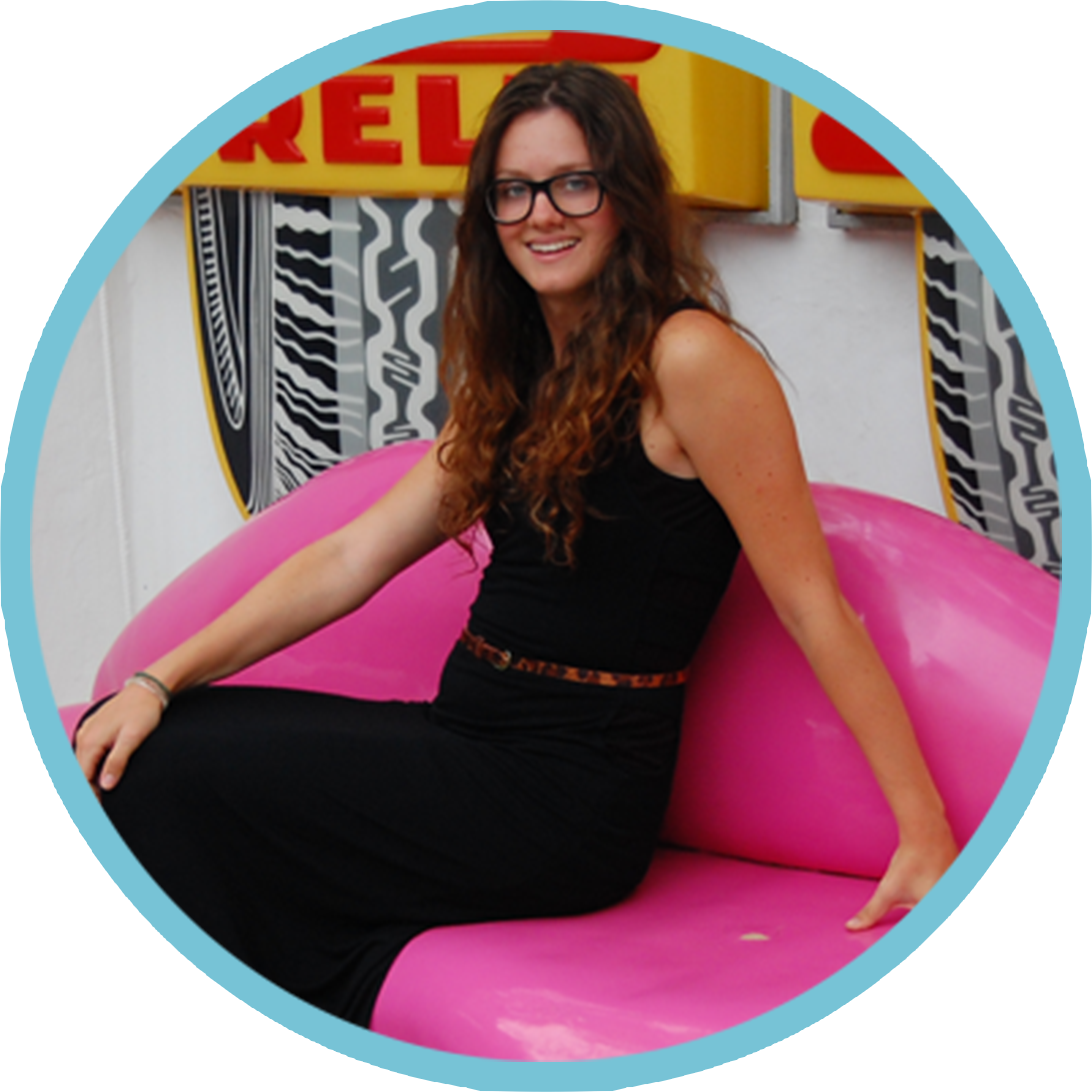
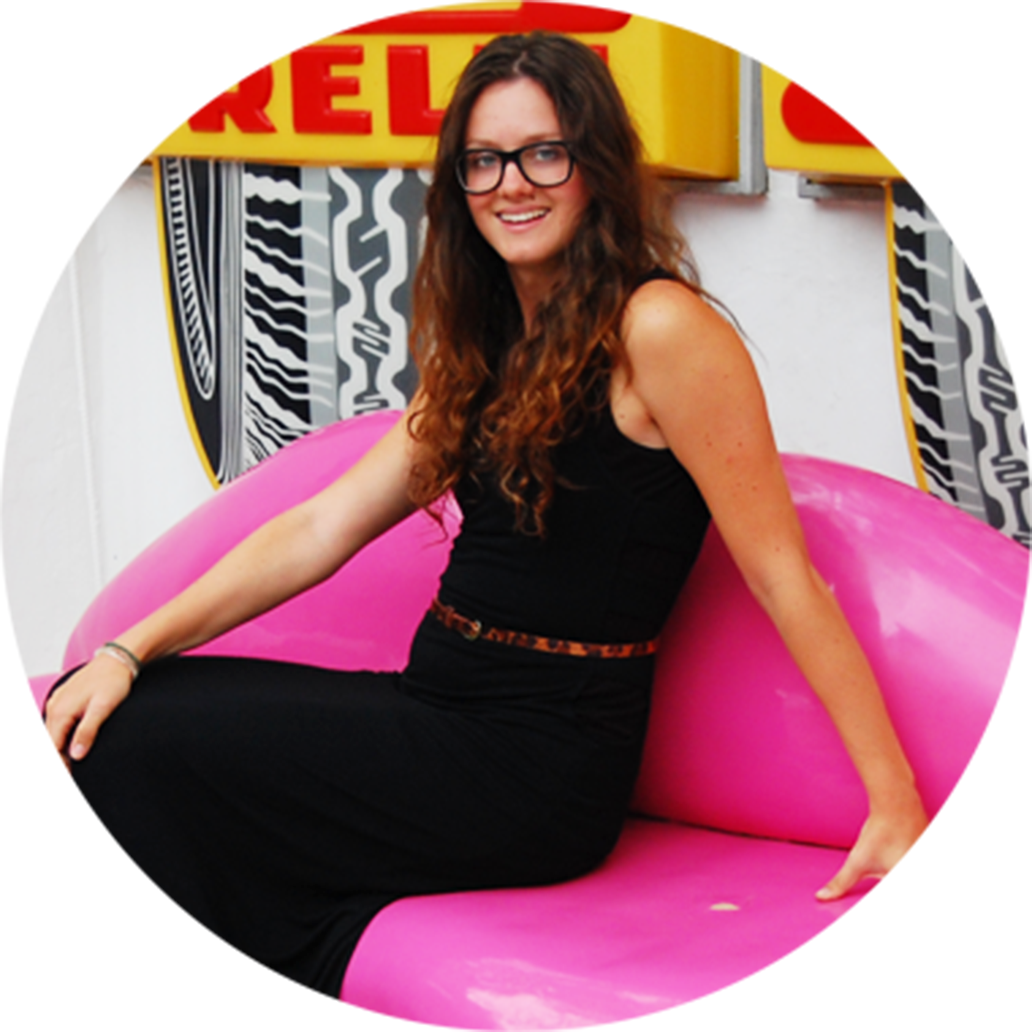
finalizing contact page

diff --git a/style.css b/style.css
@@ -4,43 +4,52 @@
 @import url(http://fonts.googleapis.com/css?family=Open+Sans:700);
 @import url(http://fonts.googleapis.com/css?family=Noto+Sans:400,700);
 
-body{
+body {
 	font-family: 'Open Sans Condensed', sans-serif;
 	padding: 0;
 	margin: 0; 
 	}
-h1{
+h1	{
 	font-family: 'Open Sans Bold', sans-serif;
 	font-size: 1.8em;
 	letter-spacing: .01em;
 	text-transform: uppercase;
 	margin-bottom: -10px;
 	}
-h2{
+h2	{
 	font-family: 'Noto Sans', sans-serif;
 	font-size: .95em;
 	letter-spacing: .03em;
 	}
-h4{
+h4	{
 	font-family: 'Quicksand', sans-serif;
 	font-size: 4em;
 	margin-top: 34px;
 	margin-bottom: -16px;
 	z-index: 9;
 	}
-h3{
+h3	{
 	font-family: 'Quicksand', sans-serif;
 	font-size: 1.6em;
-	letter-spacing: .2em;
+	letter-spacing: .26em;
 	z-index: 9;
 	}
-p{
+h5 {
+	font-family: 'Open Sans Bold', sans-serif;
+	font-size: 5.2em; 
+	text-align: center;
+	letter-spacing: .24em;
+	text-transform: uppercase;
+	margin-top: .5em;
+	margin-bottom: .3em;
+	}
+p	{
 	font-family: 'Open Sans Condensed', sans-serif;
 	font-size: 1.2em;
 	line-height: 2em;
 	text-align: left;
 	}
-nav{
+nav	{
 	background-color: transparent;
 	position: fixed;
 	width: 100%;
@@ -50,7 +59,7 @@ nav{
 	letter-spacing: .14em;
 	float: right;
 	}
-nav a{
+nav a {
 	color: #fff;
 	text-transform: uppercase;
 	text-decoration: none;
@@ -76,7 +85,7 @@ nav li {
   	position: absolute;
 	}
 #intropod {
-	min-height: 700px;
+	min-height: 685px;
 	width: 100%;
 	margin: 0;
 	padding: 0;
@@ -95,10 +104,12 @@ nav li {
 	margin-right: auto !important;
 	}
 .me img{
-	width: 400px;
+	width: 390px;
 	margin: 0 auto; 
 	position: relative;
 	top: 20px;
+	border: 12px solid #77c3d6;
+	border-radius: 50%;
 	}
 #triangle-left {
 	width: 0;
@@ -249,20 +260,58 @@ nav li {
 	height: 1000px;
 	}
 .social {
-	margin: 0 auto;
-	float: none;
 	position: relative;
-	display: -webkit-box;
 	text-align: center;
-	padding-top: 200px;
+	z-index: 9;
 	}
 .social img{
 	padding-left: 40px; 
 	padding-right: 15px;
 	width: 40px;
+	float: left;
 	}
 .social p {
-	font-family: 'Noto Sans Bold', sans-serif !important;
-	color: #fff;
+	font-family: 'Open Sans Bold', sans-serif !important;
+	font-size: 2em;
+	color: #000;
+	float: right;
+	line-height: 1;
+	font-weight: bold;
+	z-index: 9;
+	}
+.social :hover{
+	color: #2439ff;
+	cursor: pointer; 
+}
+#twitter {
+	position: absolute;
+	top: 300px;
+	left: 50em;
+	}
+#email {
+	position: absolute;
+	top: 14.5em;
+	left: 19em;
+	}
+#linkedin {
+	position: absolute;
+	top: 36em;
+	left: 22em;
+	}
+#dribble {
+	position: absolute;
+	top: 37em;
+	left: 48em;
+	}
+.contact {
+	position: absolute;
+	float: none;
+/*	background-size: 420px;
+	background-position: center;
+	top: 200px; */
+
+	}
+.contact img {
+	height: 550px;
 	}
 

diff --git a/index.html b/index.html
@@ -39,7 +39,7 @@
     <div>
       <div class="row">
         <div class="twelve columns center">
-          <p>I live and work in San Francisco, but raised in Brooklyn, NY. I love drawing in my sketchbook, calligraphy and hand-lettering, yoga, DIY projects, laughing with my friends, coding websites, and being outside. When I'm not learning new things or challenging myself, I feel uneasy. I am a risk taker. I am most happy in an environment where I can express my creativity and work with like minded people. My best ideas come from collaboration.</p>
+          <p>I live and work in San Francisco, bred in Brooklyn. I love drawing in my sketchbook, calligraphy and hand-lettering, yoga, DIY projects, laughing with my friends, coding websites, and being outside. When I'm not learning new things or challenging myself, I feel uneasy. I am a risk taker. I am most happy in an environment where I can express my creativity and work with like minded people. My best ideas come from collaboration.</p>
            <p>I solve problems one pixel and one bracket at a time. Currently I’m the UX/Visual Designer at Upsight. I lead the user experience strategy at Upsight and design new product features from specs to wireframes to full mockups to code complete. I helped design and code the Upsight website. I also work on product marketing for print and web. Since Upsight merged and rebranded into a new company in Nov 2013, I helped rebrand Upsight, redesign our current dashboard/product, the new brand and UI style guides.  </p>
 
           <p>Before Upsight, I worked at OMGPOP. At OMGPOP, I helped design UI elements for DrawSomething, designed the marketing campaign for the game and worked on marketing ads for OMGPOP's other games. While at OMGPOP, I cofounded Matchpuppy, a website that makes scheduling playdates with your dog very easy. I was inspired by my dogs lack of social skills and my cofounder and I built the app. It was an interesting learning experience. We grew our user base to almost 10,000 users. When the site was not growing anymore, we realized there's a lot more out there for us to learn, so we stopped the project.</p>

diff --git a/contact.html b/contact.html
@@ -12,14 +12,38 @@
 </head>
 <body>
   <div class="button back"> <a href="index.html">&#8592;</a></div>
-  	<div class="blue-pod">
+<!--   	<div class="blue-pod"> <! Blue Pod
   		<div class="row">
   			<div class="ten columns social center">
   				<img src="images/twitter.svg"/><p>@pink_ketchup</p>
+  				<img src="images/linkedin.svg"/><p></p>
   				<img src="images/email.svg"/><p>victoria.ts04@gmail.com</p>
   				<img src="images/dribble.svg"/><p>@pink_ketchup</p>
   			</div>
   		</div>
+  	</div> -->
+  	<div class="row">
+  	<div class="twelve columns social">
+  		<div id="twitter">
+  			<a href="twitter.com"><img src="images/twitter.svg"/><p>@pink_ketchup</p></a>
+  		</div>
+  		<div id="email">
+  			<a href="twitter.com"><img src="images/email.svg"/><p>victoria.ts04@gmail.com</p></a>
+  		</div>
+  		<div id="linkedin">
+  			<a href="twitter.com"><img src="images/linkedin.svg"/><p>@Victoria Artz</p></a>
+  		</div>
+  		<div id="dribble">
+  			<a href="twitter.com"><img src="images/dribble.svg"/><p>@pink_ketchup</p></a>
+  		</div>	
   	</div>
+  	</div>
+  	<div class="row">
+  		<div class="twelve columns contact">
+  			<h5>Contact</h5>
+  		<img class="center" src="images/contact-img.png"/>
+  		</div>
+  	</div>
+
 </body>
  

diff --git a/skeleton.css b/skeleton.css
@@ -409,7 +409,12 @@ there.
 @media (min-width: 550px) {}
 
 /* Larger than tablet */
-@media (min-width: 750px) {}
+@media (min-width: 750px) {
+.social {
+  width: 40%;
+  }
+
+}
 
 /* Larger than desktop */
 @media (min-width: 1000px) {}
